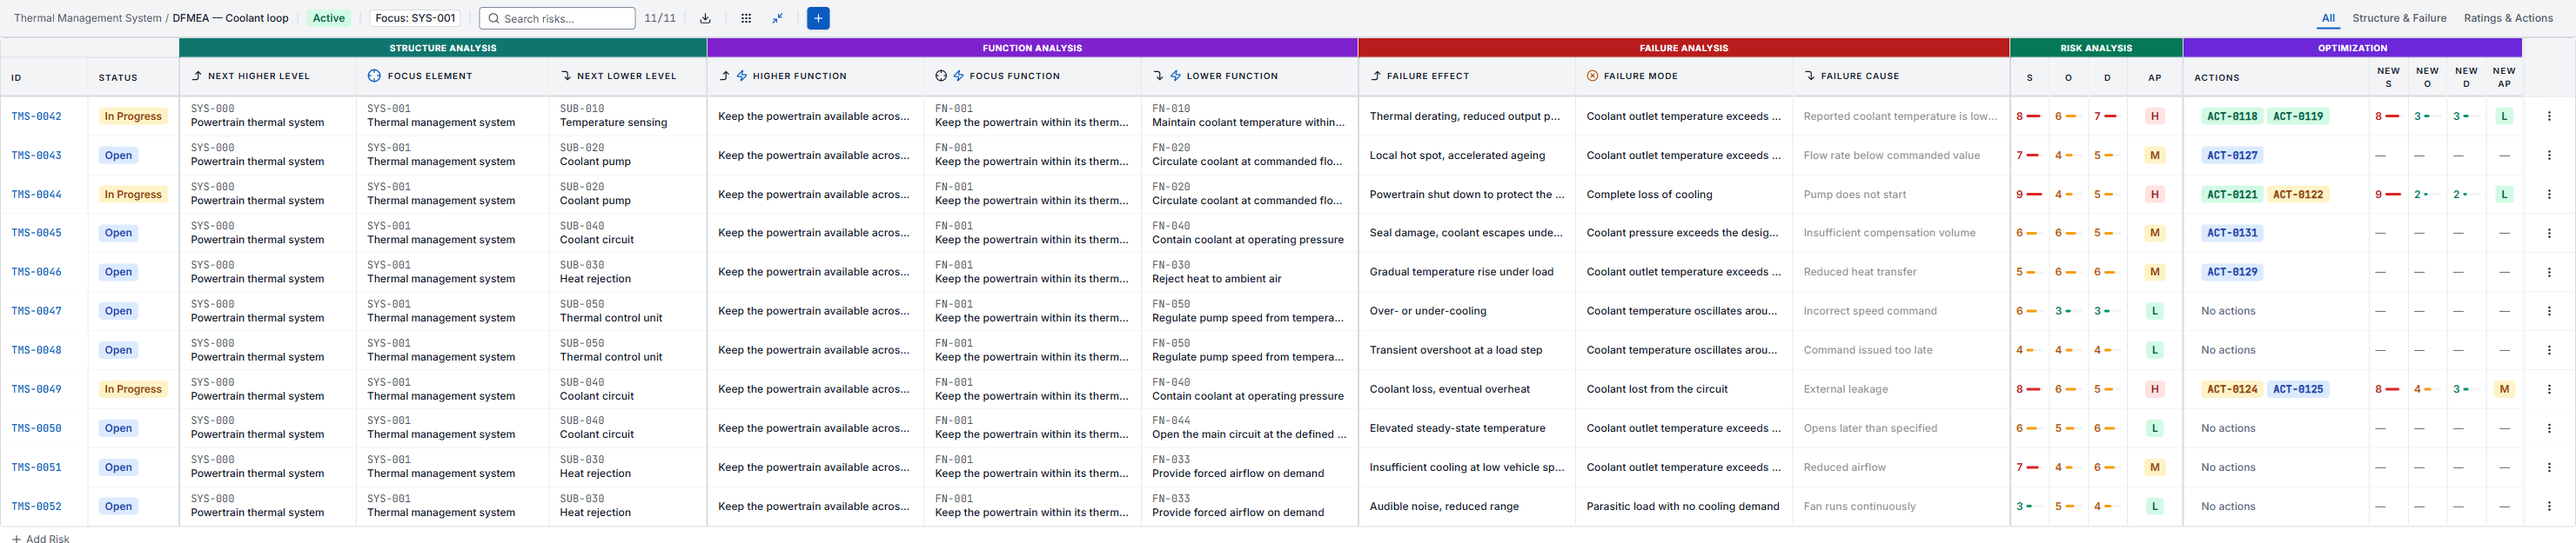
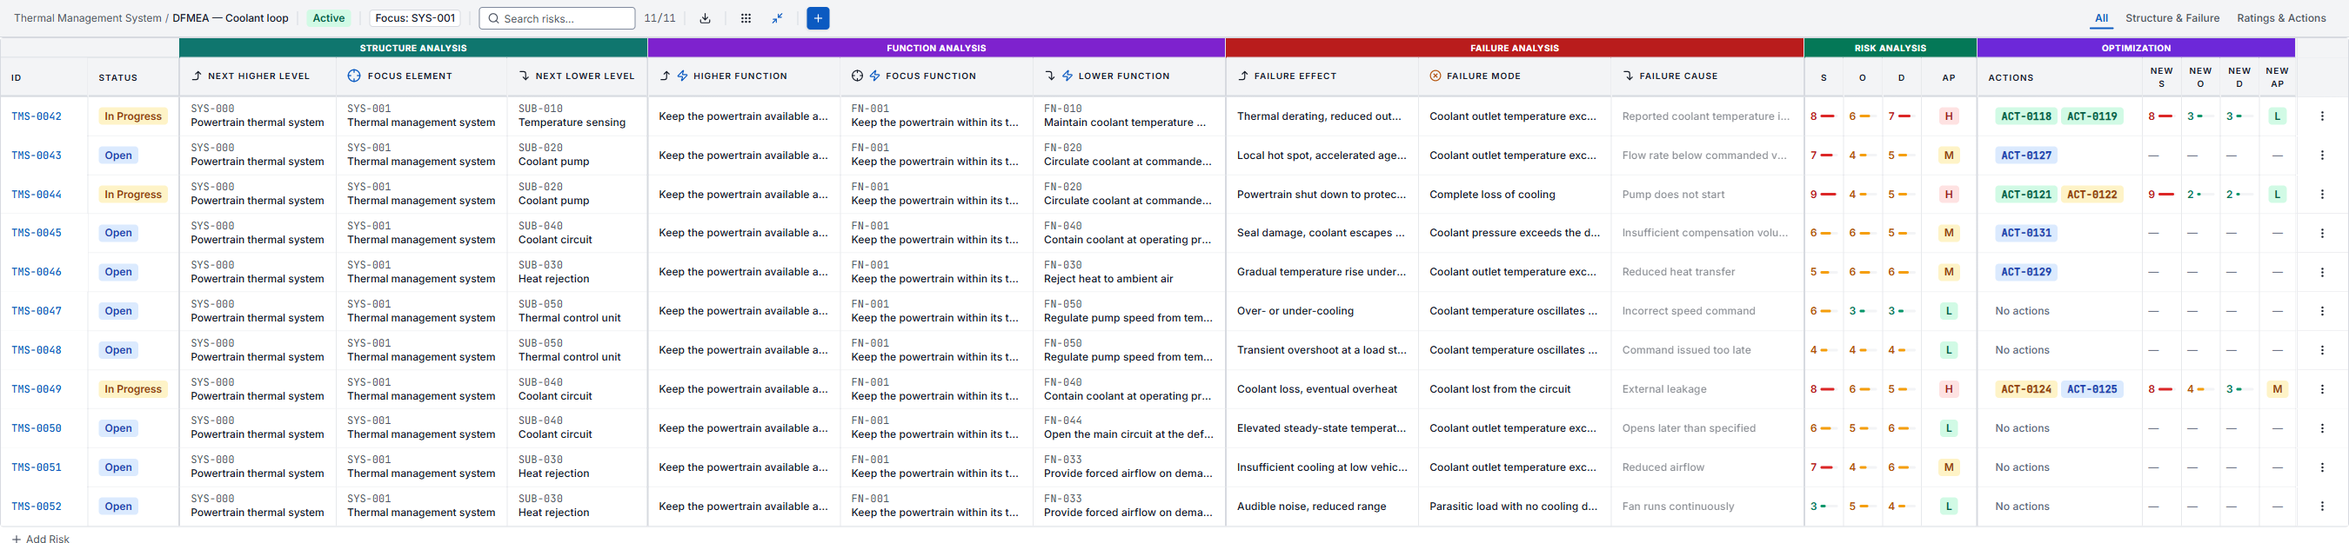
The three worksheet views are at one zoom, because they are at one width
Each view needs a different minimum layout width to fit its columns -- 2597 for
All, 2120 for Structure & Failure, about 1520 for Ratings & Actions -- and I
had captured each at its own minimum. Shown at a single page width that put
them at three different scales: the application's 12px type landed at roughly
5.8px, 7.9px and 11.3px. Switching tabs zoomed the product in and out.

All three are now captured at 2700, the width at which the widest of them stops
scrolling, so the narrower views simply let their columns breathe rather than
being shrunk. Measured on the rendered page, all three sit at scale 0.646.

Splitting the All view into stacked strips would have bought more magnification
but shown a table the product never draws that way, so the shared width won
instead. To stop one scale meaning one small scale, the hero's container is
wider than the prose column: 120rem against 92rem.

diff --git a/home/index.html b/home/index.html
@@ -125,6 +125,10 @@
 			   readable, which the 71rem text column cannot do. These sit wider than
 			   the prose and fall back to the viewport on a laptop. */
 			.shot { width: 100%; max-width: 92rem; margin: 0 auto; padding: 0 20px; }
+			/* The three worksheet views share one capture width, so they render at
+			   one scale. Giving them a wider container than the prose keeps that
+			   shared scale readable on a large screen. */
+			.shot.wide { max-width: 120rem; }
 			.shot-cap { margin: 14px auto 0; max-width: 64ch; text-align: center; font-size: 0.875rem; color: var(--subtle-fg); }
 			.shot-cap b { color: var(--muted-fg); font-weight: 600; }
 
@@ -298,7 +302,7 @@
 				</div>
 			</div>
 
-			<div class="shot" style="margin-top:56px">
+			<div class="shot wide" style="margin-top:56px">
 				<div class="views" role="tablist" aria-label="Worksheet views">
 					<button type="button" role="tab" id="tab-all" aria-controls="panel-all" aria-selected="true" tabindex="0">All</button>
 					<button type="button" role="tab" id="tab-structure" aria-controls="panel-structure" aria-selected="false" tabindex="-1">Structure &amp; Failure</button>
@@ -311,7 +315,7 @@
 							<span class="frame-path">app.aegix.eu / worksheet</span>
 						</div>
 						<div class="frame-body">
-							<img src="shots/view-all.png" width="2960" height="625" alt="A complete AIAG-VDA DFMEA worksheet in Aegix, with every column group side by side: structure analysis, function analysis, failure analysis, the severity, occurrence and detection ratings with the action priority they produce, and optimisation with the linked actions and re-rated values." />
+							<img src="shots/view-all.png" width="2700" height="625" alt="A complete AIAG-VDA DFMEA worksheet in Aegix, with every column group side by side: structure analysis, function analysis, failure analysis, the severity, occurrence and detection ratings with the action priority they produce, and optimisation with the linked actions and re-rated values." />
 						</div>
 					</figure>
 				</div>
@@ -322,7 +326,7 @@
 							<span class="frame-path">app.aegix.eu / worksheet · structure &amp; failure</span>
 						</div>
 						<div class="frame-body">
-							<img src="shots/view-structure.png" width="4320" height="1215" loading="lazy" alt="The same worksheet narrowed to structure and failure: the next higher element, the focus element and the next lower element, each of their functions, and then the failure effect, failure mode and failure cause." />
+							<img src="shots/view-structure.png" width="2700" height="615" loading="lazy" alt="The same worksheet narrowed to structure and failure: the next higher element, the focus element and the next lower element, each of their functions, and then the failure effect, failure mode and failure cause." />
 						</div>
 					</figure>
 				</div>
@@ -333,7 +337,7 @@
 							<span class="frame-path">app.aegix.eu / worksheet · ratings &amp; actions</span>
 						</div>
 						<div class="frame-body">
-							<img src="shots/view-ratings.png" width="3040" height="1620" loading="lazy" alt="The same worksheet in its ratings view. Each row collapses the chain into one identification cell — the next higher element, the focus element, its function, then the failure effect, failure mode and failure cause, each tagged on its own line — leaving the ratings, the action priority, the linked actions and the re-rated values beside it." />
+							<img src="shots/view-ratings.png" width="2700" height="1670" loading="lazy" alt="The same worksheet in its ratings view. Each row collapses the chain into one identification cell — the next higher element, the focus element, its function, then the failure effect, failure mode and failure cause, each tagged on its own line — leaving the ratings, the action priority, the linked actions and the re-rated values beside it." />
 						</div>
 					</figure>
 				</div>
